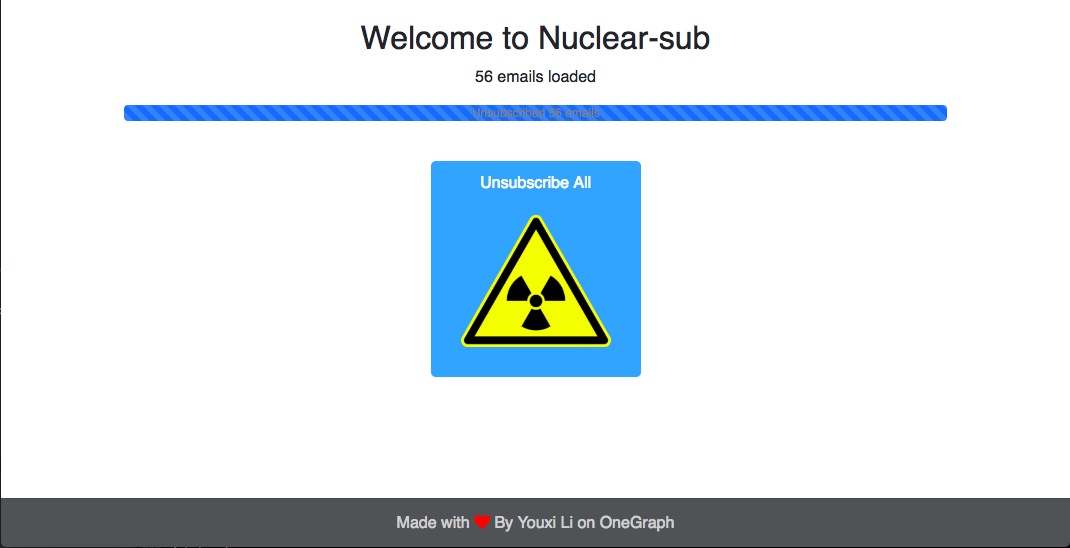
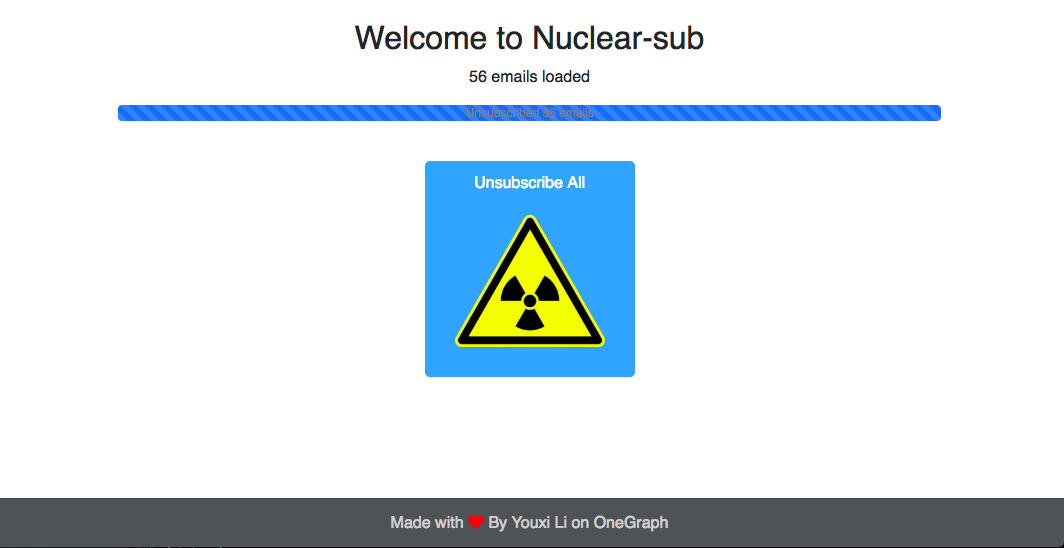
Add parallax

diff --git a/nuclear-landing/index.html b/nuclear-landing/index.html
@@ -11,20 +11,26 @@
     <body>
         <a href="https://github.com/yukims19/Nuclear-sub"><img style="position: absolute; top: 0; right: 0; border: 0;" src="https://s3.amazonaws.com/github/ribbons/forkme_right_darkblue_121621.png" alt="Fork me on GitHub"></a>
         <div class="main-content">
+            <div class="scroll-up">
             <div class="main-image">
-                <img src="example2.png">
+                <img src="example1.png">
             </div>
             <div class="description">
                 <div class="pointer">
-                    <i class="fas fa-hand-pointer"></i>
-                <p>One Click to Unsubscribe from all the unwanted emails.</p>
+                    <i class="fas fa-hand-pointer"></i><br>
+                    <p>One Click to Unsubscribe from all the unwanted emails.</p>
                 </div>
             </div>
+            </div>
+            <div class="scroll">But, this is really what this is<br>
+                <i class="fas fa-chevron-down"></i></div>
         </div>
-
+        <div class="parallax"></div>
         <div class="card-footer">
             Made with <i class="fas fa-heart"></i> By Youxi Li on OneGraph
         </div>
+
+
 
         <script src="https://code.jquery.com/jquery-3.3.1.slim.min.js" integrity="sha384-q8i/X+965DzO0rT7abK41JStQIAqVgRVzpbzo5smXKp4YfRvH+8abtTE1Pi6jizo" crossorigin="anonymous"></script>
         <script src="https://cdnjs.cloudflare.com/ajax/libs/popper.js/1.14.3/umd/popper.min.js" integrity="sha384-ZMP7rVo3mIykV+2+9J3UJ46jBk0WLaUAdn689aCwoqbBJiSnjAK/l8WvCWPIPm49" crossorigin="anonymous"></script>

diff --git a/nuclear-landing/style.css b/nuclear-landing/style.css
@@ -1,16 +1,26 @@
 .main-content {
+  position: relative;
+  height: 100vh;
+}
+.main-content h1 {
+  width: 100%;
+  text-align: center;
+  margin: 10px;
+}
+.scroll-up {
+  display: flex;
   width: 80%;
   position: relative;
   left: 10%;
-  display: flex;
-  margin-top: 100px;
+  top: 30px;
 }
 .main-content .main-image {
   padding: 20px;
   flex-grow: 1;
+  border: 1px solid #cfcfcf;
 }
 .main-content .main-image img {
-  width: 100%;
+  height: 50vh;
 }
 .main-content .description {
   padding: 20px;
@@ -36,4 +46,25 @@
 }
 .card-footer i {
   color: red;
+}
+.scroll {
+  background: red;
+  color: white;
+  width: 100%;
+  font-size: 2.5rem;
+  text-align: center;
+  height: 130px;
+  position: absolute;
+  bottom: 50px;
+}
+.parallax {
+  padding: 10px;
+  background-image: url("example2.png");
+  min-height: 500px;
+  height: 100vh;
+  /* Create the parallax scrolling effect */
+  background-attachment: fixed;
+  background-position: center center;
+  background-repeat: no-repeat;
+  background-size: cover;
 }

diff --git a/nuclear-landing/.#style.css b/nuclear-landing/.#style.css
@@ -1,0 +1,1 @@
+yukili@Yukis-Air.8086
